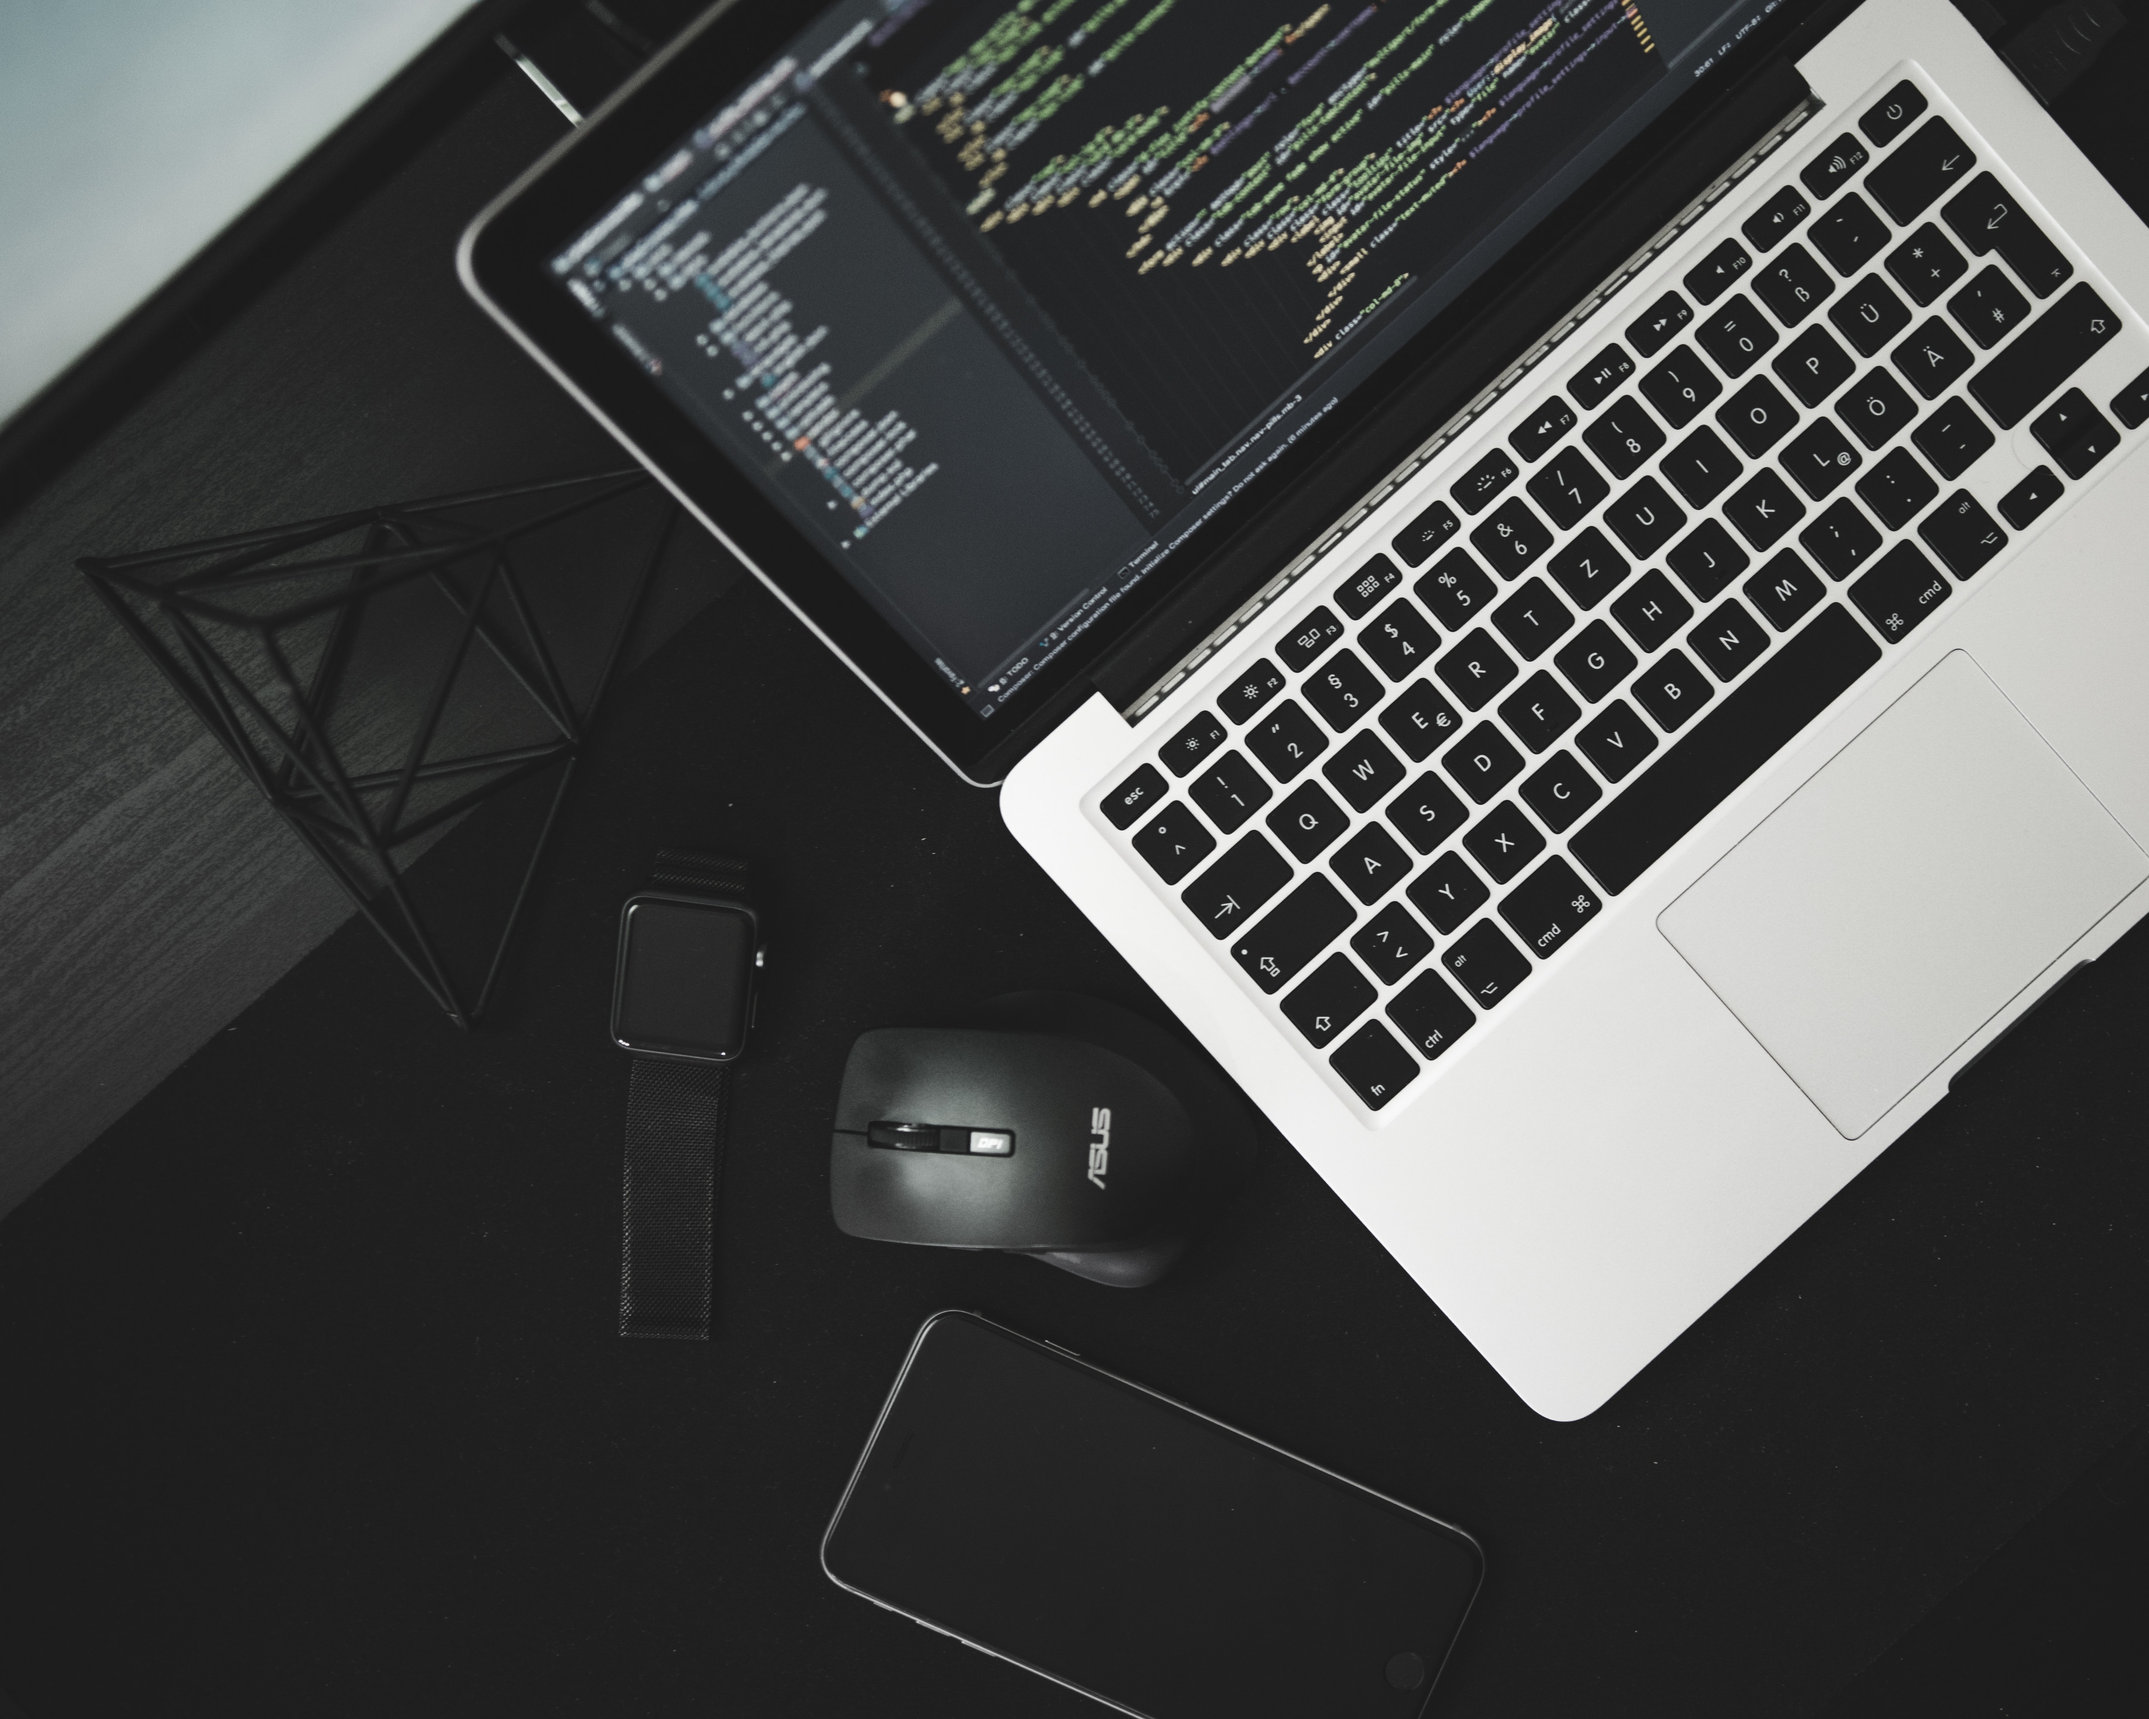
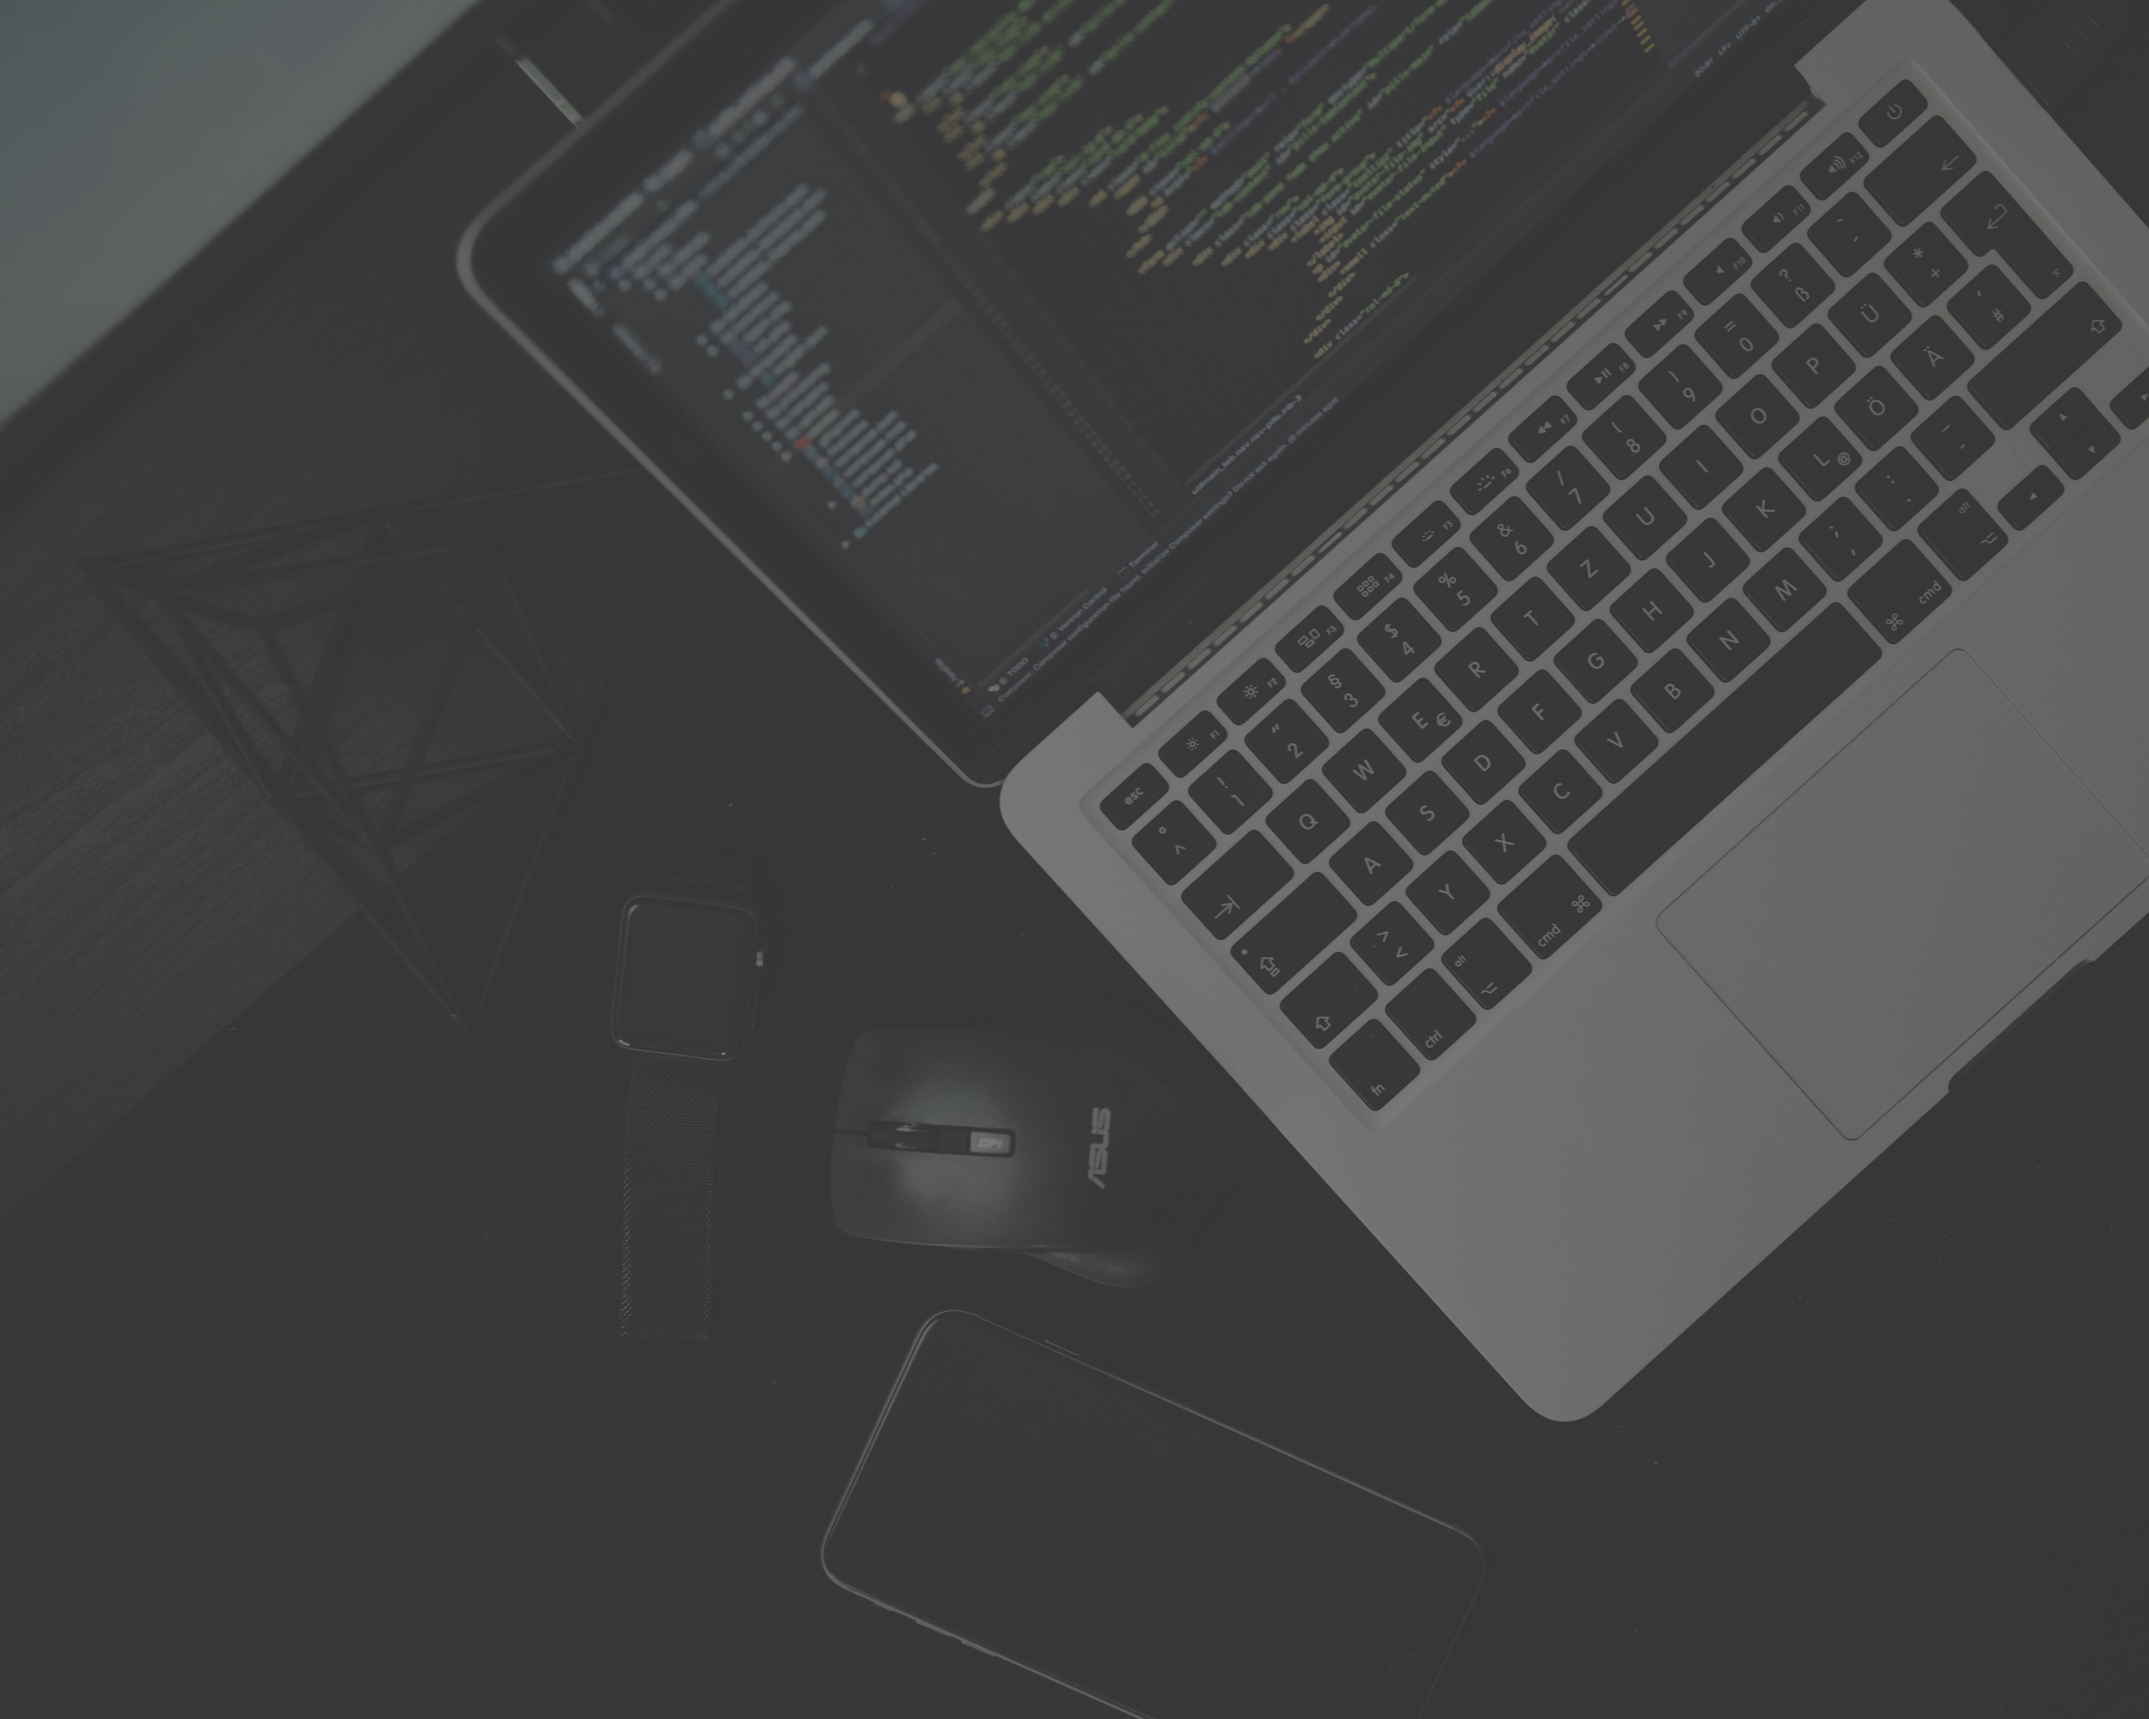
acerca de compleado

diff --git a/src/App.css b/src/App.css
@@ -21,13 +21,12 @@ nav {
 }
 .logo {
   width: 16.25rem;
-
 }
 
 /******************* Menu Links ******************/
 nav a.nav-link{
   /* font-weight: 500; */
-  font-size: .8rem;
+  font-size: .7rem;
   letter-spacing: 0.00375rem;
   cursor: pointer;
 }
@@ -70,8 +69,8 @@ nav ul li{
 .header-wraper {
   position: relative;
   /* background: url(Macbook2.jpg) no-repeat; */
-  /* background: url(Macbook.jpg) no-repeat; */
-  background: url(wall-and-laptop-background.jpg) no-repeat;
+  background: url(Macbook.jpg) no-repeat;
+  /* background: url(wall-and-laptop-background.jpg) no-repeat; */
   background-size: cover;
   background-position: center;
   height: 90vh;
@@ -110,19 +109,19 @@ nav ul li{
 
 /******************* Typed Text ******************/
 .typed-text{
-  font-size: 2rem;
-  color: var(--primary-orange);
+  font-size: 1.8rem;
+  color: var(--primary-white);
 }
 @media(max-width: 768px)  {
   .main-info h1{
-    font-size: 1.7rem !important;
+    font-size: 1.6rem !important;
   }
   .typed-text{
-    font-size: 1.3rem !important;
+    font-size: 1.2rem !important;
   }
 }
 
-/******************* HEADER Main Offer Button******************/
+/******************* HEADER Main Offer Button* *****************/
 .btn-main-offer{
   border: 1px solid var(--primary-red);
   text-transform: uppercase;
@@ -139,17 +138,12 @@ nav ul li{
 }
 /*******************  Particles ******************/
 #tsparticles {
-  /* position: fixed;
-  height: 100%;
-  width: 100%;
-  margin: 0;
-  padding: 0;
-  left: 0;
-  top: 0;
-  z-index: -1; */
   position: absolute;
+  /* position: fixed; */
   height: 100vh;
   width: 100vw;
+  /* height: 100%;
+  width: 100%; */
   z-index: 1;
 }
 
@@ -159,3 +153,37 @@ nav ul li{
   }
 }
   
+.aboutmex{
+  z-index: 100;
+}
+
+canvas{
+  position: absolute !important;
+}
+
+
+/*******************  About me ******************/
+
+.photo-wrap {
+  display: flex; 
+  justify-content: center;
+  align-items: center;
+}
+
+.profile-img {
+  width: 17rem;
+  border-radius: 50%;
+  padding: .2rem;
+  border: 1px solid var(--primary-orange);
+}
+
+.about-heading {
+  color: var(--primary-orange);
+  text-transform: uppercase;
+}
+
+@media(max-width: 468px) {
+  .profile-img {
+    width: 9rem;
+  }
+}

diff --git a/src/components/AboutMe.js b/src/components/AboutMe.js
@@ -1,0 +1,32 @@
+import React from "react"
+import author from '../components/img/yo.jpeg';
+
+const AboutMe = () => {
+  return (
+    <nav className="aboutmex">
+        <div className="container py-5" id="aboutme" >
+            <div className="row">
+                <div className="col-lg-6 col-xm-12">
+                    <div className="photo-wrap mb-5">
+                        <img className="profile-img" src={author} alt="Cristian Contreras..." />
+                    </div>
+                </div>
+                <div className="col-lg-6 col-xm-12">
+                    <h1 className="about-heading">Acerca de mí</h1>
+                    <p> 
+                    Hola mi nombre es Cristián E. Contreras Cabrera soy Ingeniero Civil Industrial e Ingeniero Informático. 
+                    <br/> He dedicado mi vida profesional a liderar equipos para resolver problemas de negocios mediante la tecnología, 
+                    es así como he participado en diversos proyectos tecnológicos en los he adaptado la tecnología con lsa necesidades del cliente. 
+                    <br/> 
+                    Conozco gran parte del stack técnico Web tanto a nivel de FrontEnd y Backend.
+                    <br/> 
+                    He trabajado con metodología PMI (soy certificado PMP®) y tengo sólidos conocimientos con metodologías ágiles (XP, KANBAN, SCRUM entre otros).
+                    </p>
+                </div>
+            </div>
+        </div>
+    </nav>
+  )
+}
+
+export default AboutMe

diff --git a/src/components/Header.js b/src/components/Header.js
@@ -1,19 +1,31 @@
-import React from "react"
+//import React from "react"
 import Typed from "react-typed";
 
-const Header = () => {
+import React, { useCallback } from 'react';
+import Particles from "react-tsparticles";
+import { loadFull } from "tsparticles";
 
+import particlesOptions from "../particles.json";
+
+const Header = () => {
+  const particlesInit = useCallback(main => {
+    loadFull(main);
+  }, [])
   return (
     <> 
-
+        <Particles 
+          className="particles-canvas" 
+          height= "960"
+          position= "absolute"
+          options={particlesOptions} init={particlesInit}/>
         <div className="header-wraper">
         <div className="main-info">
         
             <h1>Project Manager & Web Development</h1>
             <Typed
                 className="typed-text"
-                strings={["Web Development","PMP®","ERP Manager"]}
-                typeSpeed={40}
+                strings={["Web Developer","PMP® Project Management Professional","ERP Manager","CiberSecurity"]}
+                typeSpeed={50}
                 backSpeed={60}
                 loop
             />

diff --git a/src/App.js b/src/App.js
@@ -9,16 +9,18 @@ import particlesOptions from "./particles.json";
 
 import Navbar from "./components/Navbar";
 import Header from './components/Header';
+import AboutMe from './components/AboutMe';
 
 function App() {
-  const particlesInit = useCallback(main => {
-    loadFull(main);
-  }, [])
+  // const particlesInit = useCallback(main => {
+  //   loadFull(main);
+  // }, [])
   return (
     <>
-      <Particles className="particles-canvas" options={particlesOptions} init={particlesInit}/>
+      {/* <Particles className="particles-canvas" options={particlesOptions} init={particlesInit}/> */}
       <Navbar/>
       <Header/>
+      <AboutMe/>
     </>
   );
 }

diff --git a/src/components/Navbar.js b/src/components/Navbar.js
@@ -1,5 +1,5 @@
 import React from "react";
-import logo from "../components/img/Logo.png";
+//import logo from "../components/img/Logo.png";
 // React Fontawasome
 import { FontAwesomeIcon } from "@fortawesome/react-fontawesome";
 import { faBars } from "@fortawesome/free-solid-svg-icons";
